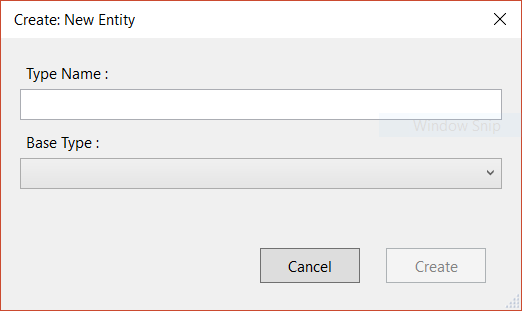
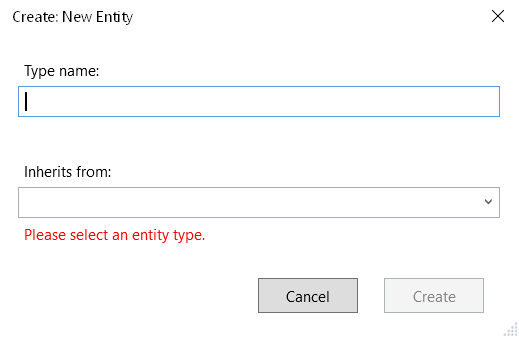
M# Basics modified

diff --git a/Basics/Page.md b/Basics/Page.md
@@ -1,7 +1,7 @@
 # What is an M# Page?
 
 Pages are fundamental for any web application and are required to display content on the website.
-M# provides this feature within #UI project. Pages created here are placed under `Pages` folder of the Visual Studio’s Web Application Project.
+M# provides this feature within #UI project. Pages created here are placed under `UI` project tree of the M# Web Application Project.
 
 For example, M# generates a default "Login" page when a project is created.
 
@@ -9,7 +9,7 @@ For example, M# generates a default "Login" page when a project is created.
 
 ### Creating New Pages
 
-A new page is created by right click on "Pages" folder in #UI project and select "Add root page" . M# allows developers to create Root or Sub-pages as required in application structure.
+A new page is created by right click on "UI" project tree in M# Explorer and select "Add page" . M# allows developers to create Root page (a page without parent) or Sub-page (a page with parent) as required in application structure.
 
 !["Add Page"](ConceptsImages/AddPage.PNG "Add Page")
 
@@ -19,3 +19,7 @@ A new page is created by right click on "Pages" folder in #UI project and select
 
 This option allows the developer to specify the name of the page. This option works as the title and actual name of the page.
 Page names with white spaces are assembled using SEO standards e.g. A page name "Hello world" will have a URL "Hello-world".
+
+**Page Name**:
+
+This option allows the developer to create Root page (a page without parent) or Sub-page (a page with parent).

diff --git a/Basics/Entity.md b/Basics/Entity.md
@@ -8,13 +8,13 @@ M# fully supports Object Oriented development and encourages developers to use a
 
 ### Adding New Entity
 
-A new entity can be added by right click on your custom folder in **#Model** project and select **Add Entity** from M# context menu as shown below
+A new entity can be added by right click on your custom folder in **#Model** tree project and select **Add Entity** from M# context menu as shown below
 
 !["M# Add Entity"](ConceptsImages/AddEntity.PNG "M# Add Entity")
 
 !["M# Add Entity Form"](ConceptsImages/CreateEntityForm.PNG "M# Add Entity Form ")
 
-### Name
+### Type Name
 
 #### The Name of the Entity
 
@@ -26,7 +26,7 @@ For example: creating the entity shown in above image, M# creates a visual studi
 
 For example: creating an entity name as "Hello world entity" will be converted to "HelloWorldEntity" entity name and "HelloWorldEntities" database table name. Same applies to Properties.
 
-#### Base Type
+#### Inherits from
 
 This property is used when a developer wants to inherit an existing entity type. M# creates a Member entity, which inherits from the "User" entity and also creates "dbo.Members" database table with one to one association on "dbo.Users" database table. This property is also available while editing the entity structure.
 

diff --git a/Basics/Module.md b/Basics/Module.md
@@ -6,6 +6,6 @@ Modules encapsulate the actual operation of any page in M#. Module types include
 
 ### Adding a New Module
 
-You can add a new module by right clicking on "Modules" folder in #UI project and selecting your desired module type.
+You can add a new module by right clicking on a created "Page" item in #UI project tree and selecting your desired module type.
 
 !["Add Module"](ConceptsImages/AddModule.PNG "Add Module")
